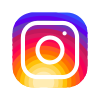
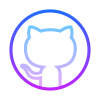
readme.md

diff --git a/README.md b/README.md
@@ -12,4 +12,4 @@ Do you think you are fast at typing ??
 
 ## Accounts
 
-[![alt text](image-2.png)](https://github.com/Alltoft) [![alt text](image-1.png)](https://www.instagram.com/)
+[![alt text](image.png)](https://github.com/Alltoft)
